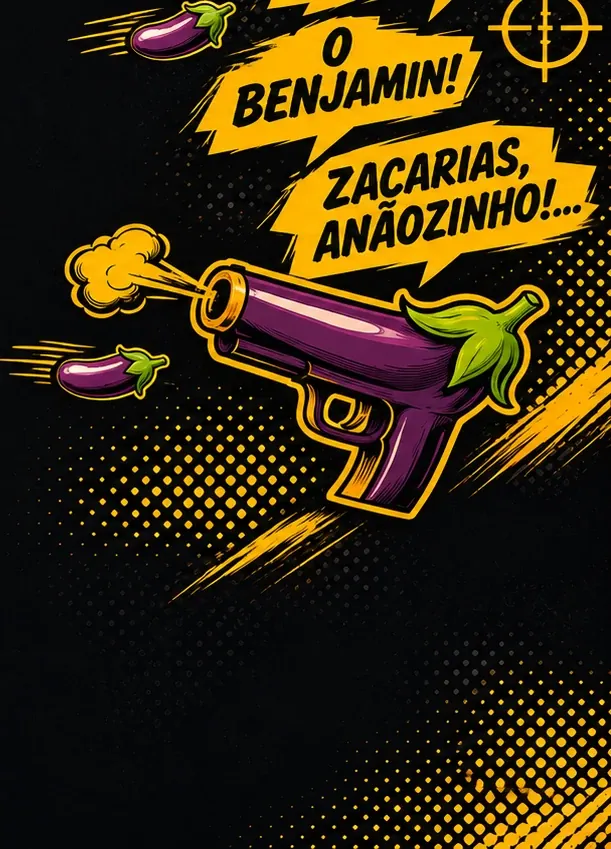
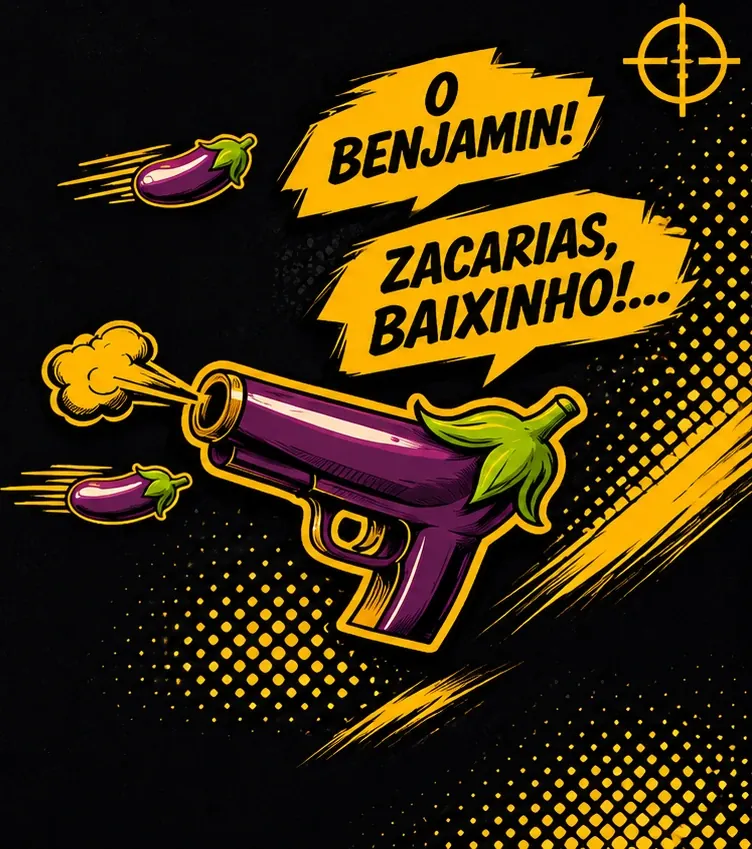
Papo Reto: nova arte de fundo do Bala do Véio
- Troca as laterais pela arte nova (caixote de berinjelas, arma-berinjela,
  mira e balões), na altura completa e com a mesma escala dos dois lados
- Opções por lateral: overlap (avançar por baixo dos cards, que têm fundo
  sólido) e focus (qual parte da arte manter quando não cabe inteira)
- Direita avança 14rem por baixo dos cards e fica presa na arma e nos
  balões; esquerda (lado do título) centralizada no caixote e nos balões

Claude-Session: https://claude.ai/code/session_01W1pgBGMPMKdA9gTW2KLxm7

diff --git a/src/papo-reto/components/RankingBackdrop.tsx b/src/papo-reto/components/RankingBackdrop.tsx
@@ -12,6 +12,10 @@ interface Side {
   /** Tamanho do arquivo, para calcular a largura máxima na altura da tela. */
   width: number;
   height: number;
+  /** Quanto pode avançar por baixo do conteúdo (ex.: "14rem" no lado dos cards, que têm fundo sólido). */
+  overlap?: string;
+  /** Posição horizontal da arte quando não cabe inteira (ex.: "50%"); padrão: presa na borda da tela. */
+  focus?: string;
 }
 
 interface Backdrop {
@@ -25,8 +29,10 @@ const BACKDROPS: Partial<Record<TabSlug, Backdrop>> = {
     right: { src: "/papo-reto/rankings/falou-merda-bg-right.webp", width: 440, height: 849 },
   },
   "bala-do-veio": {
-    left: { src: "/papo-reto/rankings/bala-do-veio-bg-left.webp", width: 520, height: 849 },
-    right: { src: "/papo-reto/rankings/bala-do-veio-bg-right.webp", width: 611, height: 849 },
+    // Arte mais larga e voltada para o centro: à esquerda (lado do título) fica centralizada no caixote e nos
+    // balões; à direita avança por baixo dos cards (fundo sólido) e fica presa na arma e nos balões.
+    left: { src: "/papo-reto/rankings/bala-do-veio-bg-left.webp", width: 570, height: 849, focus: "55%" },
+    right: { src: "/papo-reto/rankings/bala-do-veio-bg-right.webp", width: 752, height: 849, overlap: "14rem", focus: "0%" },
   },
   sabio: {
     left: { src: "/papo-reto/rankings/sabio-bg-left.webp", width: 440, height: 849 },
@@ -46,11 +52,11 @@ function SideArt({ side, align }: { side: Side; align: "left" | "right" }) {
     <div
       className={`absolute inset-y-0 ${align === "left" ? "left-0" : "right-0"}`}
       style={{
-        width: `min(${GAP}, calc(100vh * ${side.width} / ${side.height}))`,
+        width: `min(calc(${GAP} + ${side.overlap ?? "0rem"}), calc(100vh * ${side.width} / ${side.height}))`,
         backgroundImage: `url(${side.src})`,
         backgroundRepeat: "no-repeat",
         backgroundSize: "auto 100%",
-        backgroundPosition: `${align} center`,
+        backgroundPosition: `${side.focus ?? align} center`,
         // Some em direção ao conteúdo.
         maskImage: `linear-gradient(to ${align === "left" ? "right" : "left"}, #000 80%, transparent)`,
       }}
